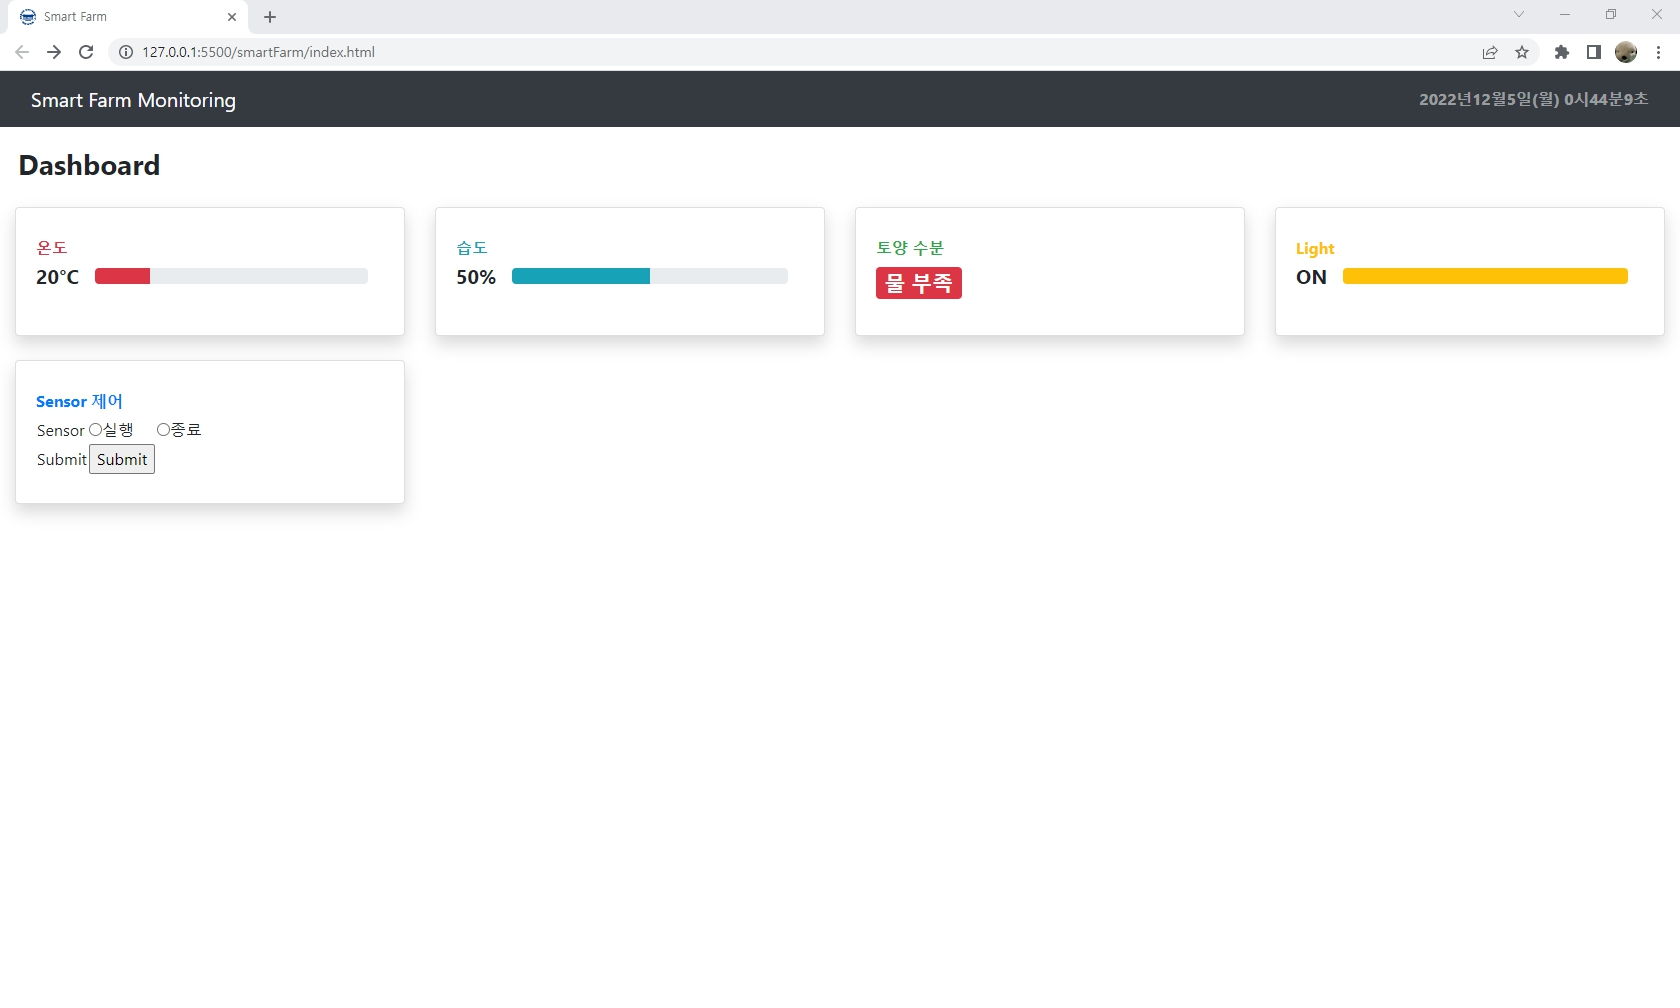
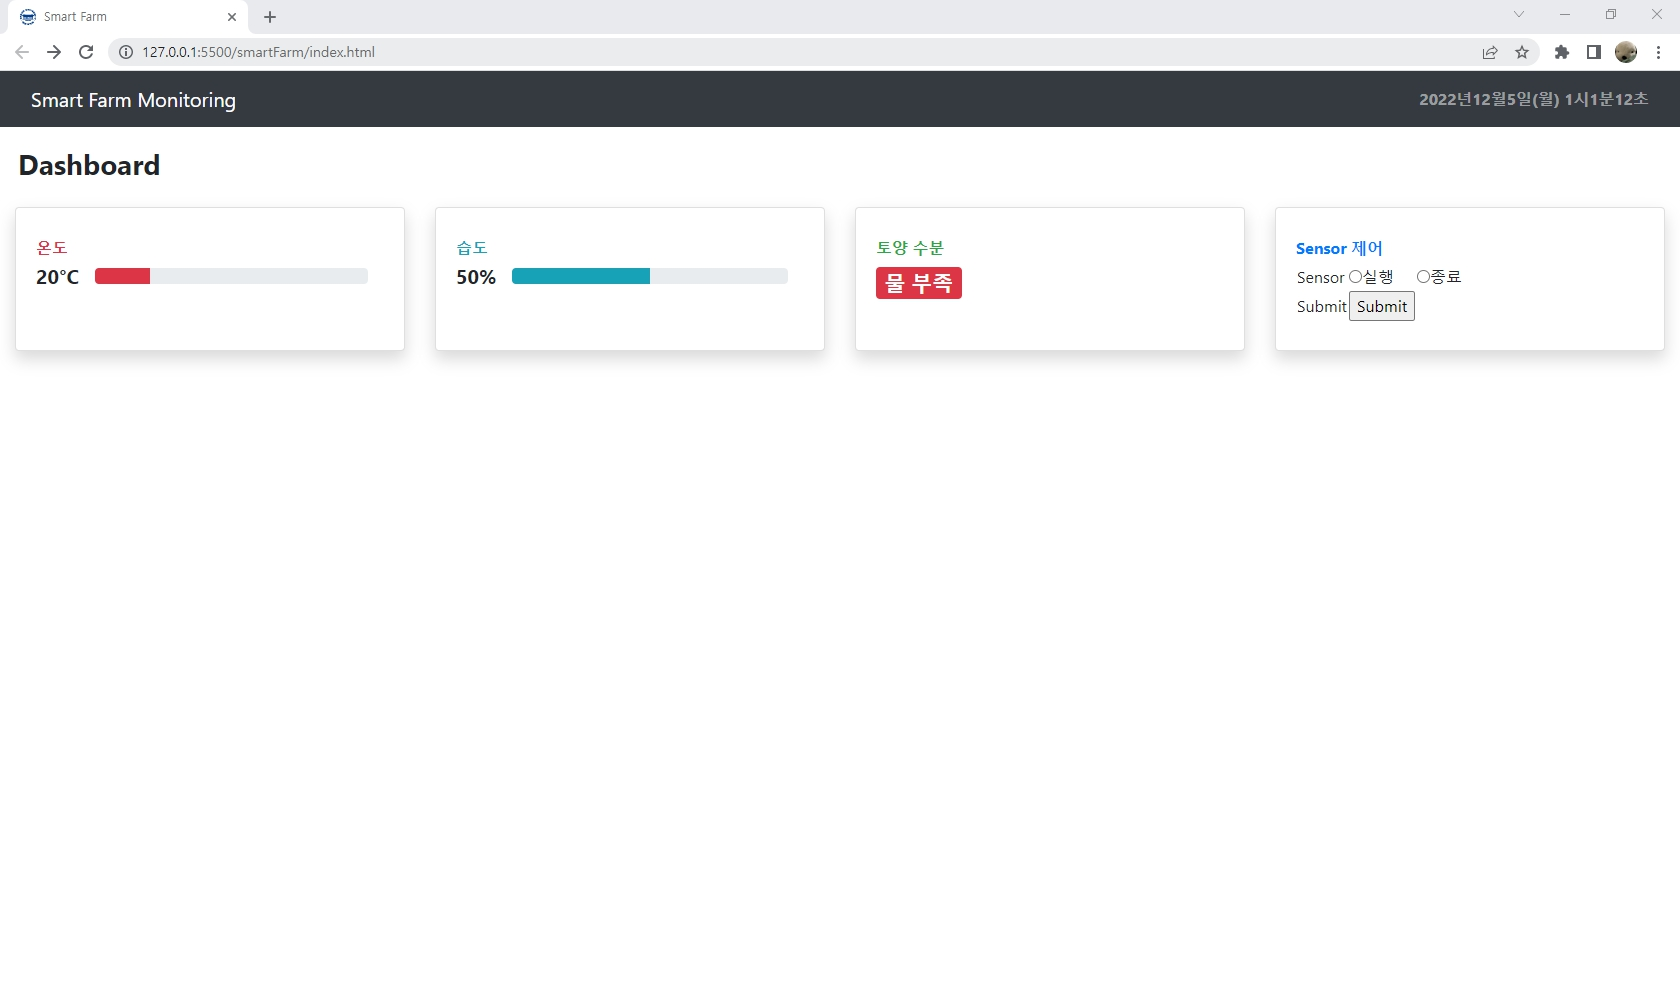
remove light

diff --git a/index.html b/index.html
@@ -107,24 +107,27 @@
                 </div>
             </div>
 
-            <!-- 빛 여부 Card -->
+            <!-- Sensor 제어 Card -->
             <div class="col-xl-3 col-md-6 mb-4">
                 <div class="card border-left-info shadow h-100 py-2">
                     <div class="card-body">
                         <div class="row no-gutters align-items-center">
                             <div class="col mr-2">
-                                <div class="text-xs font-weight-bold text-warning mb-1">Light
+                                <div class="text-xs font-weight-bold text-primary mb-1">Sensor 제어
                                 </div>
-                                <div class="row no-gutters align-items-center">
-                                    <div class="col-auto">
-                                        <div class="h5 mb-0 mr-3 font-weight-bold text-gray-800">ON</div>
-                                    </div>
-                                    <div class="col">
-                                        <div class="progress progress-sm mr-2">
-                                            <div class="progress-bar bg-warning" role="progressbar" style="width: 100%"
-                                                aria-valuenow="100" aria-valuemin="0" aria-valuemax="100"></div>
-                                        </div>
-                                    </div>
+                                <form action="control.html" method="GET" onSubmit="document.reload()">
+                                    <table>
+                                        <tr>
+                                            <td>Sensor</td>
+                                            <td><input type="radio" name="Sensor" value="On"/>실행</td>
+                                            <td><input type="radio" name="Sensor" value="Off"/>종료</td>
+                                        </tr>
+                                        <tr>
+                                            <td>Submit</td>
+                                            <td><input type="submit" value="Submit"/></td>
+                                        </tr>
+                                    </table>
+                                </form>
                                 </div>
                             </div>
                         </div>
@@ -133,32 +136,6 @@
             </div>
         </div>
         <!-- Content Row -->
-    </div>
-    <div class="col-xl-3 col-md-6 mb-4">
-        <div class="card border-left-info shadow h-100 py-2">
-            <div class="card-body">
-                <div class="row no-gutters align-items-center">
-                    <div class="col mr-2">
-                        <div class="text-xs font-weight-bold text-primary mb-1">Sensor 제어
-                        </div>
-                        <form action="control.html" method="GET" onSubmit="document.reload()">
-                            <table>
-                                <tr>
-                                    <td>Sensor</td>
-                                    <td><input type="radio" name="Sensor" value="On"/>실행</td>
-                                    <td><input type="radio" name="Sensor" value="Off"/>종료</td>
-                                </tr>
-                                <tr>
-                                    <td>Submit</td>
-                                    <td><input type="submit" value="Submit"/></td>
-                                </tr>
-                            </table>
-                        </form>
-                        </div>
-                    </div>
-                </div>
-            </div>
-        </div>
     </div>
 </body>
 
